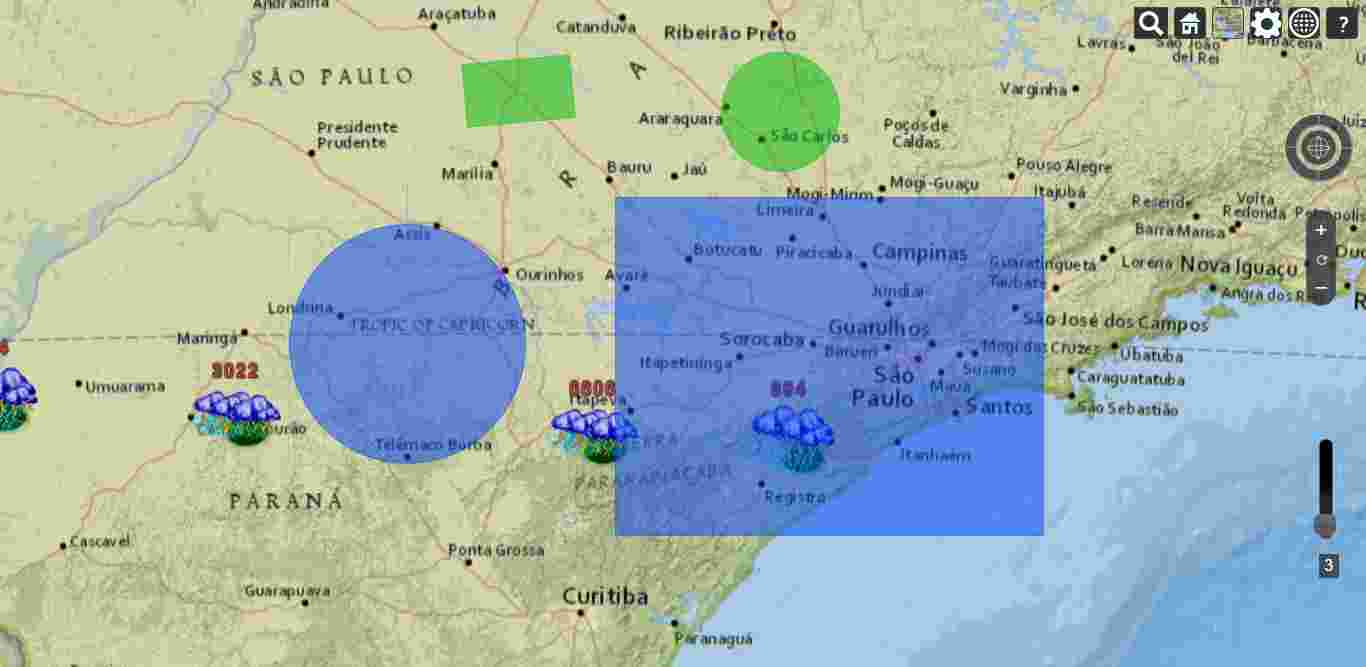
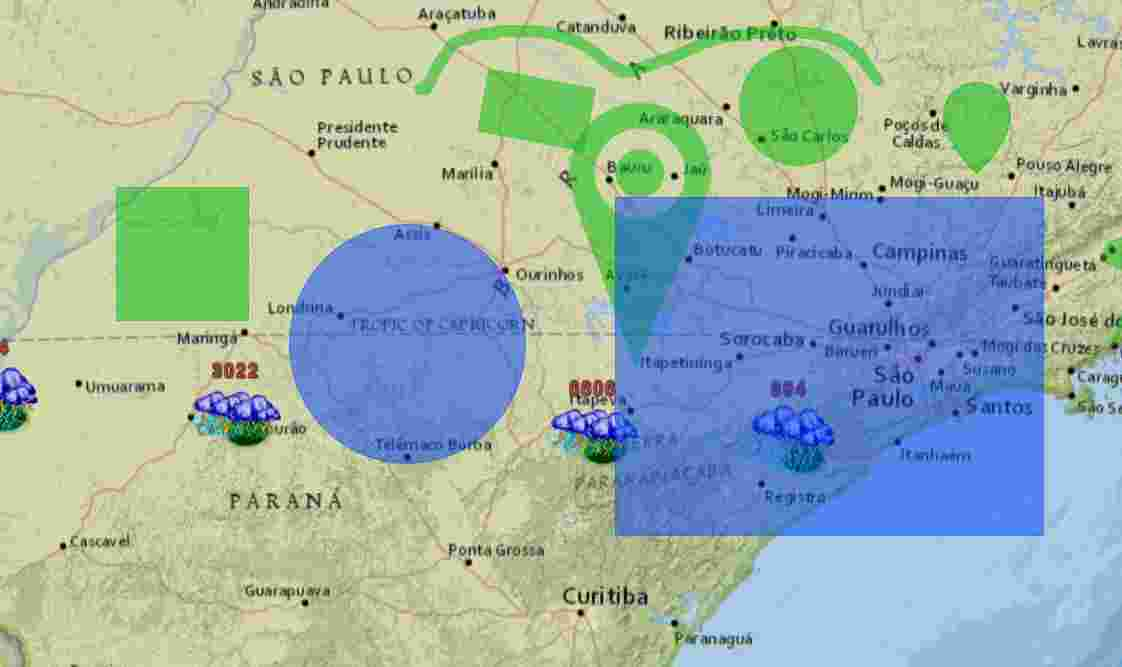
Adicionado elemento PIN e correção do desenho retangulo para todas as direções

diff --git a/ProjetoColaborativo/Scripts/paineis.js b/ProjetoColaborativo/Scripts/paineis.js
@@ -69,7 +69,7 @@ canvas1.on('path:created', function (e) {
 });
 
 function SaveObject(target, remover) {
-
+    
     if (target.naosalvar) 
         return;
     
@@ -141,6 +141,10 @@ var drawingobject;
  */
 $("input[type='button'].icon-rect").click(function () {
 
+    canvas1.off('mouse:move');
+    canvas1.off('mouse:down');
+    canvas1.off('mouse:up');
+
     draw = true;
     var drawingobject;
 
@@ -158,6 +162,8 @@ $("input[type='button'].icon-rect").click(function () {
             drawingobject = new fabric.Rect({
                 top: startY,
                 left: startX,
+                originX: 'left',
+                originY: 'top',
                 width: 0,
                 height: 0,
                 fill: "rgba(" + hexToRgb(cordono).r + ", " + hexToRgb(cordono).g + ", " + hexToRgb(cordono).b + ", 0.5)",
@@ -170,9 +176,17 @@ $("input[type='button'].icon-rect").click(function () {
             canvas1.add(drawingobject);
 
             canvas1.on('mouse:move', function (option) {
-                var e = option.e;
-                drawingobject.set('width', e.offsetX - startX);
-                drawingobject.set('height', e.offsetY - startY);
+                var pointer = canvas1.getPointer(option.e);
+                
+                if (startX > pointer.x) {
+                    drawingobject.set({ left: Math.abs(pointer.x) });
+                }
+                if (startY > pointer.y) {
+                    drawingobject.set({ top: Math.abs(pointer.y) });
+                }
+                
+                drawingobject.set({ width: Math.abs(startX - pointer.x) });
+                drawingobject.set({ height: Math.abs(startY - pointer.y) });
                 drawingobject.setCoords();
                 canvas1.renderAll();
             });
@@ -195,8 +209,11 @@ $("input[type='button'].icon-rect").click(function () {
  */
 $("input[type='button'].icon-elipse").click(function () {
 
-    draw = true;
+    canvas1.off('mouse:move');
+    canvas1.off('mouse:down');
+    canvas1.off('mouse:up');
 
+    draw = true;
     var drawingobject;
 
     canvas1.on('mouse:down', function (option) {
@@ -273,6 +290,11 @@ $("input[type='button'].icon-elipse").click(function () {
  */
 
 $("input[type='button'].icon-pencil").click(function () {
+
+    canvas1.off('mouse:move');
+    canvas1.off('mouse:down');
+    canvas1.off('mouse:up');
+
     canvas1.isDrawingMode = true;
 
     canvas1.freeDrawingBrush.color = "rgba(" + hexToRgb(cordono).r + ", " + hexToRgb(cordono).g + ", " + hexToRgb(cordono).b + ", 0.5)";
@@ -283,6 +305,60 @@ $("input[type='button'].icon-pencil").click(function () {
     });
 });
 
+/**
+ * PIN
+ */
+
+var pinpath = "M156.831,70.804c0,13.473-10.904,24.396-24.357,24.396c-13.434,0-24.357-10.923-24.357-24.396c0-13.434,10.904-24.337,24.357-24.337C145.927,46.467,156.831,57.37,156.831,70.804z M203.298,70.795c0,8.764-1.661,17.098-4.563,24.836c-9.282,27.571-70.736,169.307-70.736,169.307S70.14,110.403,65.118,92.68c-2.237-6.868-3.478-14.196-3.478-21.866C61.64,31.743,93.354,0,132.474,0C171.593-0.01,203.307,31.733,203.298,70.795zM177.661,71.078c0-24.953-20.214-45.197-45.187-45.197c-24.953,0-45.177,20.234-45.177,45.187s20.224,45.187,45.177,45.187C157.446,116.255,177.661,96.031,177.661,71.078z";
+$("input[type='button'].icon-pin").click(function () {
+
+    canvas1.off('mouse:move');
+    canvas1.off('mouse:down');
+    canvas1.off('mouse:up');
+
+    draw = true;
+    var drawingobject;
+
+    canvas1.on('mouse:down', function (option) {
+
+        if (!draw) return false;
+
+        if (typeof option.target != "undefined") {
+            return;
+        } else {
+            var startY = option.e.offsetY,
+                startX = option.e.offsetX,
+                id = uuid.v4();
+            
+            drawingobject = new fabric.Path(pinpath, {
+                originX: 'center',
+                originY: 'bottom',
+                top: startY,
+                left: startX,
+                width: 141,
+                height: 164,
+                fill: "rgba(" + hexToRgb(cordono).r + ", " + hexToRgb(cordono).g + ", " + hexToRgb(cordono).b + ", 0.5)",
+                stroke: '',
+                strokewidth: 0,
+                id: id,
+                iddono: dono
+            });
+
+            canvas1.add(drawingobject);
+        }
+    });
+
+    canvas1.on('mouse:up', function () {
+        draw = false;
+        canvas1.off('mouse:move');
+        canvas1.off('mouse:down');
+        canvas1.off('mouse:up');
+        SaveObject(drawingobject, false);
+    });
+
+});
+
+
 // alert json
 $("input[type='button'].icon-speaker").click(function () {
     alert(JSON.stringify(canvas1.toDatalessJSON()));
@@ -292,6 +368,10 @@ $("input[type='button'].icon-speaker").click(function () {
  * TEXT
  */
 $("input[type='button'].icon-text").click(function () {
+
+    canvas1.off('mouse:move');
+    canvas1.off('mouse:down');
+    canvas1.off('mouse:up');
 
     canvas1.on('mouse:up', function(o) {
         var id = uuid.v4();

diff --git a/ProjetoColaborativo.Models/DAO/Repositorio.cs b/ProjetoColaborativo.Models/DAO/Repositorio.cs
@@ -55,7 +55,7 @@ namespace ProjetoColaborativo.Models.DAO
             if (entity == default(T))
                 throw new ArgumentNullException("entity");
 
-            if (Sessao.Contains(entity) && entity.Handle > 0)
+            if (entity.Handle > 0)
                 return Sessao.Merge(entity);
 
             Sessao.SaveOrUpdate(entity);
